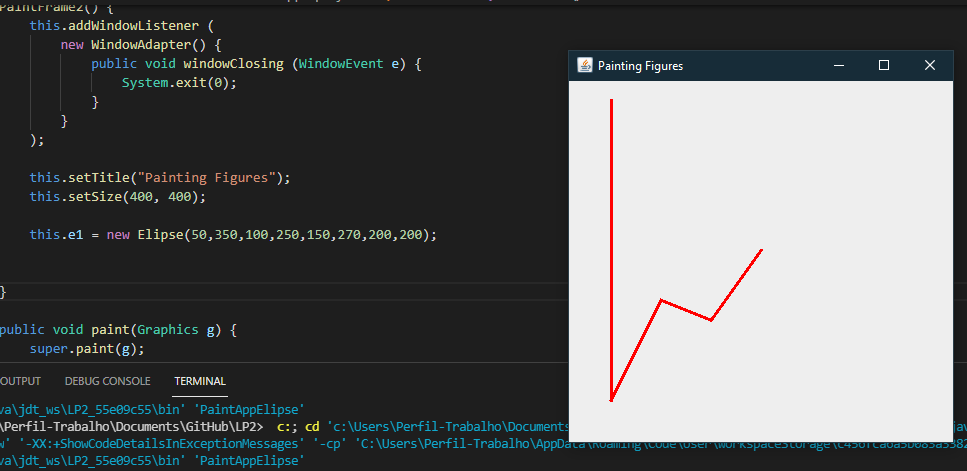
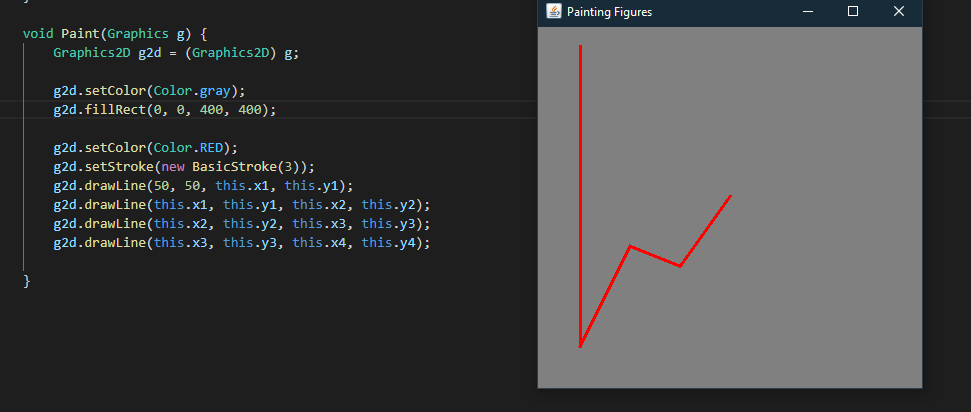
att

diff --git a/Pastas Github/01-Hello/02-Java2D-Hello/2.2.2/PaintAppElipse.java b/Pastas Github/01-Hello/02-Java2D-Hello/2.2.2/PaintAppElipse.java
@@ -60,6 +60,9 @@ class Elipse {
     void Paint(Graphics g) {
         Graphics2D g2d = (Graphics2D) g;
 
+        g2d.setColor(Color.gray);
+        g2d.fillRect(0, 0, 400, 400);
+
         g2d.setColor(Color.RED);
         g2d.setStroke(new BasicStroke(3));
         g2d.drawLine(50, 50, this.x1, this.y1);
